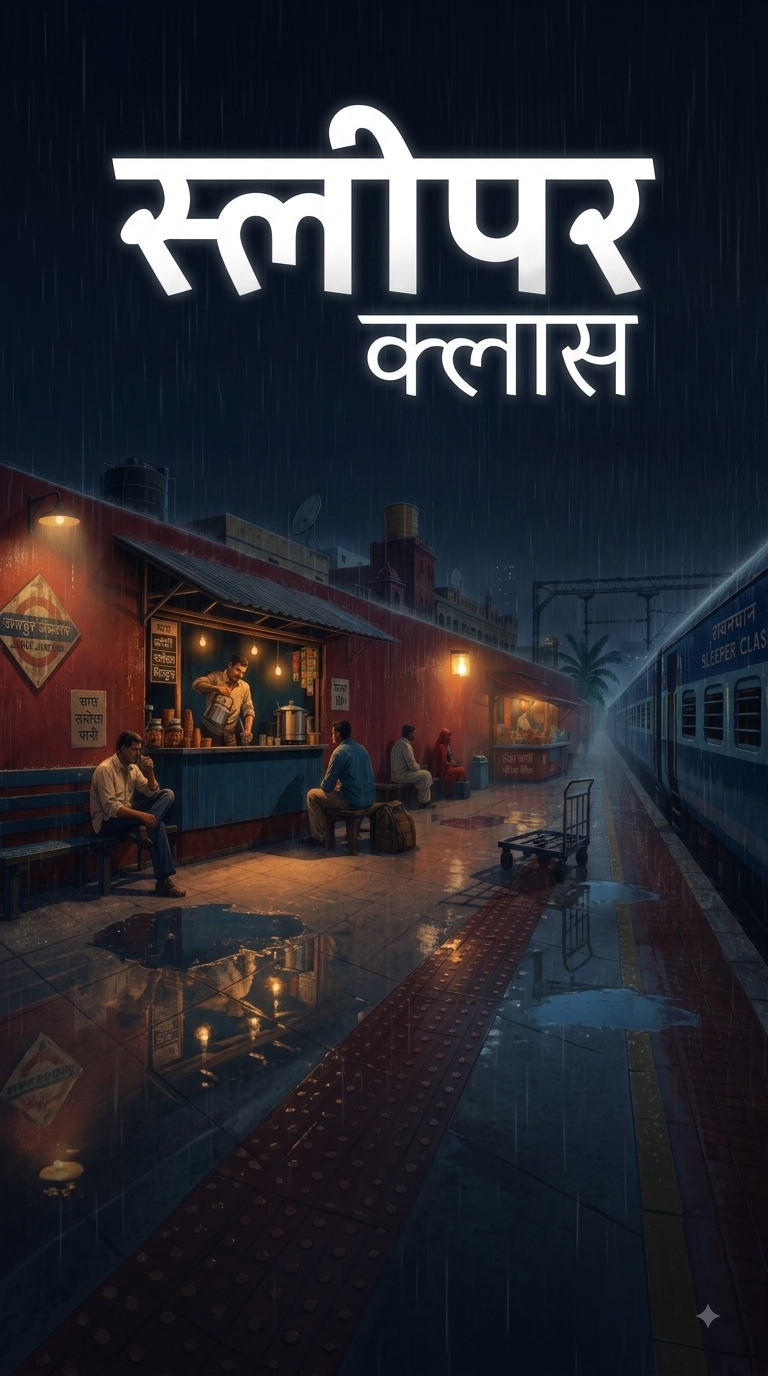
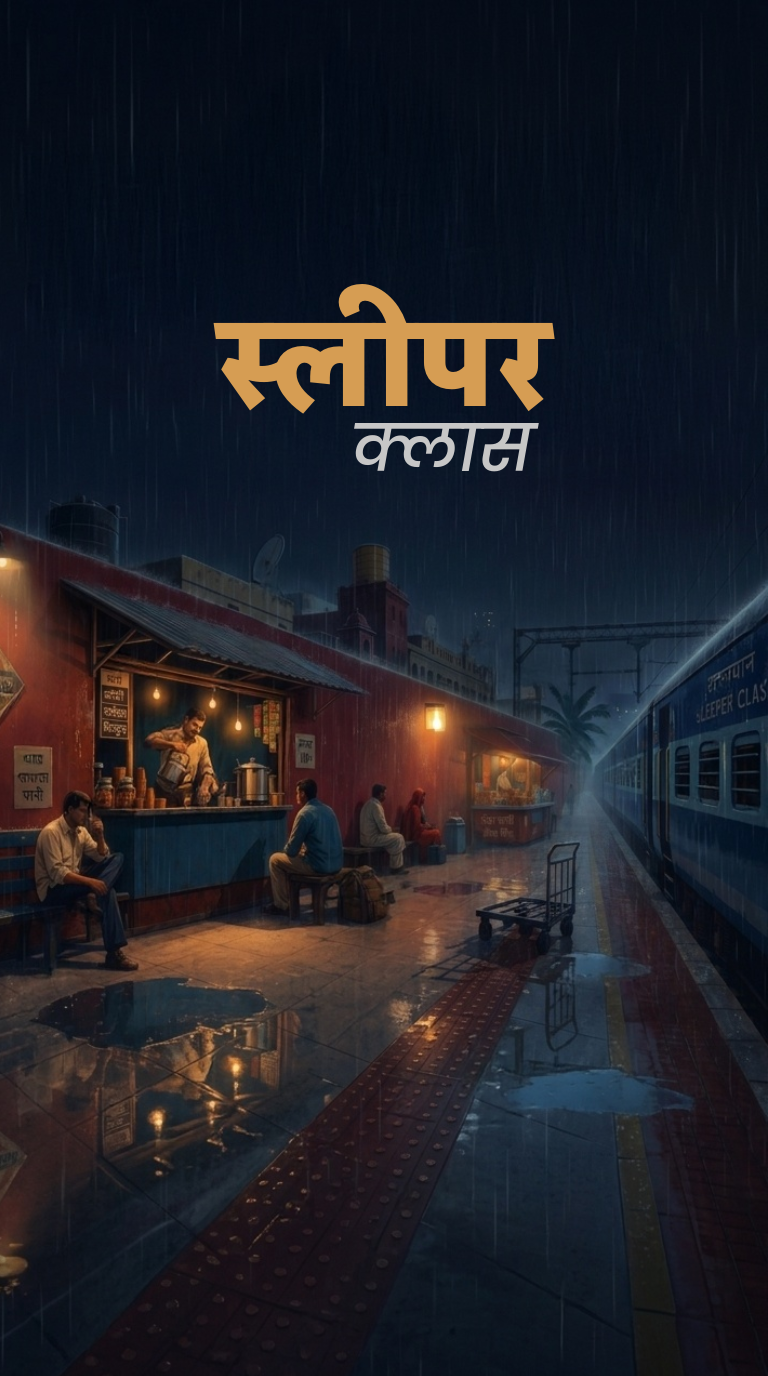
feat: add new music station and update UI components for better user experienced

diff --git a/app/page.tsx b/app/page.tsx
@@ -22,6 +22,11 @@ const notoDevanagari = Noto_Sans_Devanagari({
 
 const stations = [
   {
+    videoId: "fbx6ULRrhXg",
+    title: "AMBARSARIYA",
+    artist: "Sona Mohapatra",
+  },
+  {
     videoId: "piUHBTXsoiY",
     title: "Raabta",
     artist: "Pritam",
@@ -107,19 +112,9 @@ const stations = [
     artist: "Labh Janjua",
   },
   {
-    videoId: "XAJSWVvgR2M",
-    title: "Abhi Toh Party Shuru Hui Hai",
-    artist: "Aastha Gill",
-  },
-  {
     videoId: "pwKmLIPvEjI",
     title: "Badtameez Dil",
     artist: "Shefali Alvares",
-  },
-  {
-    videoId: "fbx6ULRrhXg",
-    title: "AMBARSARIYA",
-    artist: "Sona Mohapatra",
   },
   {
     videoId: "lSPNH_rYKIg",
@@ -709,6 +704,7 @@ export default function Page() {
   const [stationIndex, setStationIndex] = useState(0);
   const [notice, setNotice] = useState("");
   const [isBuffering, setIsBuffering] = useState(false);
+  const [currentTime, setCurrentTime] = useState("");
 
   const audioContext = useRef<AudioContext | null>(null);
   const timeoutRef = useRef<number | null>(null);
@@ -716,6 +712,21 @@ export default function Page() {
 
   const currentStation = stations[stationIndex];
 
+  useEffect(() => {
+    const updateTime = () => {
+      const now = new Date();
+      setCurrentTime(
+        now.toLocaleTimeString("en-US", {
+          hour: "numeric",
+          minute: "2-digit",
+          hour12: true,
+        }),
+      );
+    };
+    updateTime();
+    const timer = setInterval(updateTime, 60000); // Update every minute
+    return () => clearInterval(timer);
+  }, []);
   // Supress React Player AbortError noise
   useEffect(() => {
     const handleRejection = (event: PromiseRejectionEvent) => {
@@ -811,7 +822,6 @@ export default function Page() {
           priority
           className="object-cover object-center opacity-80 hidden md:block"
         />
-        <RainEffect />
         {/* Mobile Background (Visible on mobile, hidden on medium+ screens) */}
         <Image
           src={mobileBgImage}
@@ -820,6 +830,7 @@ export default function Page() {
           priority
           className="object-cover object-center opacity-80 block md:hidden"
         />
+        <RainEffect />
 
         {/* Gradient Overlay for player legibility */}
         <div className="absolute inset-0 pointer-events-none bg-gradient-to-b from-black/20 via-black/40 to-black/95"></div>
@@ -846,28 +857,41 @@ export default function Page() {
       {/* UI Overlay */}
       <div className="relative z-10 w-full h-full flex flex-col justify-between px-[24px] py-[24px]">
         {/* Top Navigation Bar */}
-        <header className="flex items-center justify-between w-full pt-[max(1rem,env(safe-area-inset-top))]">
-          {/* Status Badge: Online */}
-          <div className="flex items-center gap-[6px] bg-transparent border border-white/20 rounded-[9999px] px-[14px] py-[8px] pl-[12px] backdrop-blur-md">
-            <div className="w-2.5 h-2.5 rounded-[9999px] bg-[#4ade80] shadow-[0_0_8px_0_rgba(74,222,128,0.9)] animate-pulse"></div>
-            <span className="text-[#ffffff] text-[14px] font-[500] leading-[20px]">
-              1,204 online
-            </span>
+        {/* Top Navigation Bar */}
+        <header className="relative z-50 flex items-center justify-between w-full pt-[max(1rem,env(safe-area-inset-top))]">
+          {/* Left Side: Time and Online Status */}
+          <div className="flex items-center gap-2 sm:gap-3">
+            {/* Live Time Badge */}
+            <div className="bg-transparent px-[12px] py-[8px]">
+              <span className="text-[#ffffff] text-[12px] sm:text-[14px] font-[500] tracking-wide whitespace-nowrap">
+                {currentTime || "12:00 PM"}
+              </span>
+            </div>
+
+            {/* Status Badge: Online (Text hides on very small screens to save space) */}
+            <div className="flex items-center gap-[6px] bg-transparent border border-white/20 rounded-[9999px] px-[10px] sm:px-[14px] py-[8px] backdrop-blur-md">
+              <div className="w-2.5 h-2.5 flex-shrink-0 rounded-[9999px] bg-[#4ade80] shadow-[0_0_8px_0_rgba(74,222,128,0.9)] animate-pulse"></div>
+              <span className="text-[#ffffff] text-[12px] sm:text-[14px] font-[500] leading-[20px] whitespace-nowrap hidden sm:inline">
+                104 online
+              </span>
+            </div>
           </div>
 
           {/* External Links */}
-          <nav className="flex items-center gap-[22px] mr-[max(1rem,env(safe-area-inset-right))]">
+          <nav className="flex items-center gap-[16px] sm:gap-[22px] mr-[max(0.5rem,env(safe-area-inset-right))]">
             <a
-              href="https://open.spotify.com/"
+              href="https://open.spotify.com/playlist/0rXkrKD5eOVn4sVdOqceCx"
               target="_blank"
               rel="noreferrer"
-              className="group flex items-center gap-[8px] text-[#ffffff] text-[14px] font-[500] bg-transparent hover:opacity-80 transition-opacity"
+              className="group flex items-center gap-[8px] text-[#ffffff] font-[500] bg-transparent hover:opacity-80 transition-opacity"
+              aria-label="Spotify"
             >
-              Spotify
+              {/* Text hidden on mobile (sm breakpoint) */}
+              <span className="hidden sm:inline text-[14px]">Spotify</span>
               <svg
                 xmlns="http://www.w3.org/2000/svg"
-                width="16"
-                height="16"
+                width="18"
+                height="18"
                 fill="currentColor"
                 className="bi bi-spotify"
                 viewBox="0 0 16 16"
@@ -875,17 +899,20 @@ export default function Page() {
                 <path d="M8 0a8 8 0 1 0 0 16A8 8 0 0 0 8 0m3.669 11.538a.5.5 0 0 1-.686.165c-1.879-1.147-4.243-1.407-7.028-.77a.499.499 0 0 1-.222-.973c3.048-.696 5.662-.397 7.77.892a.5.5 0 0 1 .166.686m.979-2.178a.624.624 0 0 1-.858.205c-2.15-1.321-5.428-1.704-7.972-.932a.625.625 0 0 1-.362-1.194c2.905-.881 6.517-.454 8.986 1.063a.624.624 0 0 1 .206.858m.084-2.268C10.154 5.56 5.9 5.419 3.438 6.166a.748.748 0 1 1-.434-1.432c2.825-.857 7.523-.692 10.492 1.07a.747.747 0 1 1-.764 1.288" />
               </svg>
             </a>
+
             <a
               href="https://music.youtube.com/watch?v=Mmu-tj-psuk"
               target="_blank"
               rel="noreferrer"
-              className="group flex items-center gap-[8px] text-[#ffffff] text-[14px] font-[500] bg-transparent hover:opacity-80 transition-opacity"
+              className="group flex items-center gap-[8px] text-[#ffffff] font-[500] bg-transparent hover:opacity-80 transition-opacity"
+              aria-label="YouTube Music"
             >
-              YT Music
+              {/* Text hidden on mobile (sm breakpoint) */}
+              <span className="hidden sm:inline text-[14px]">YT Music</span>
               <svg
                 xmlns="http://www.w3.org/2000/svg"
-                width="16"
-                height="16"
+                width="18"
+                height="18"
                 fill="currentColor"
                 className="bi bi-youtube"
                 viewBox="0 0 16 16"
